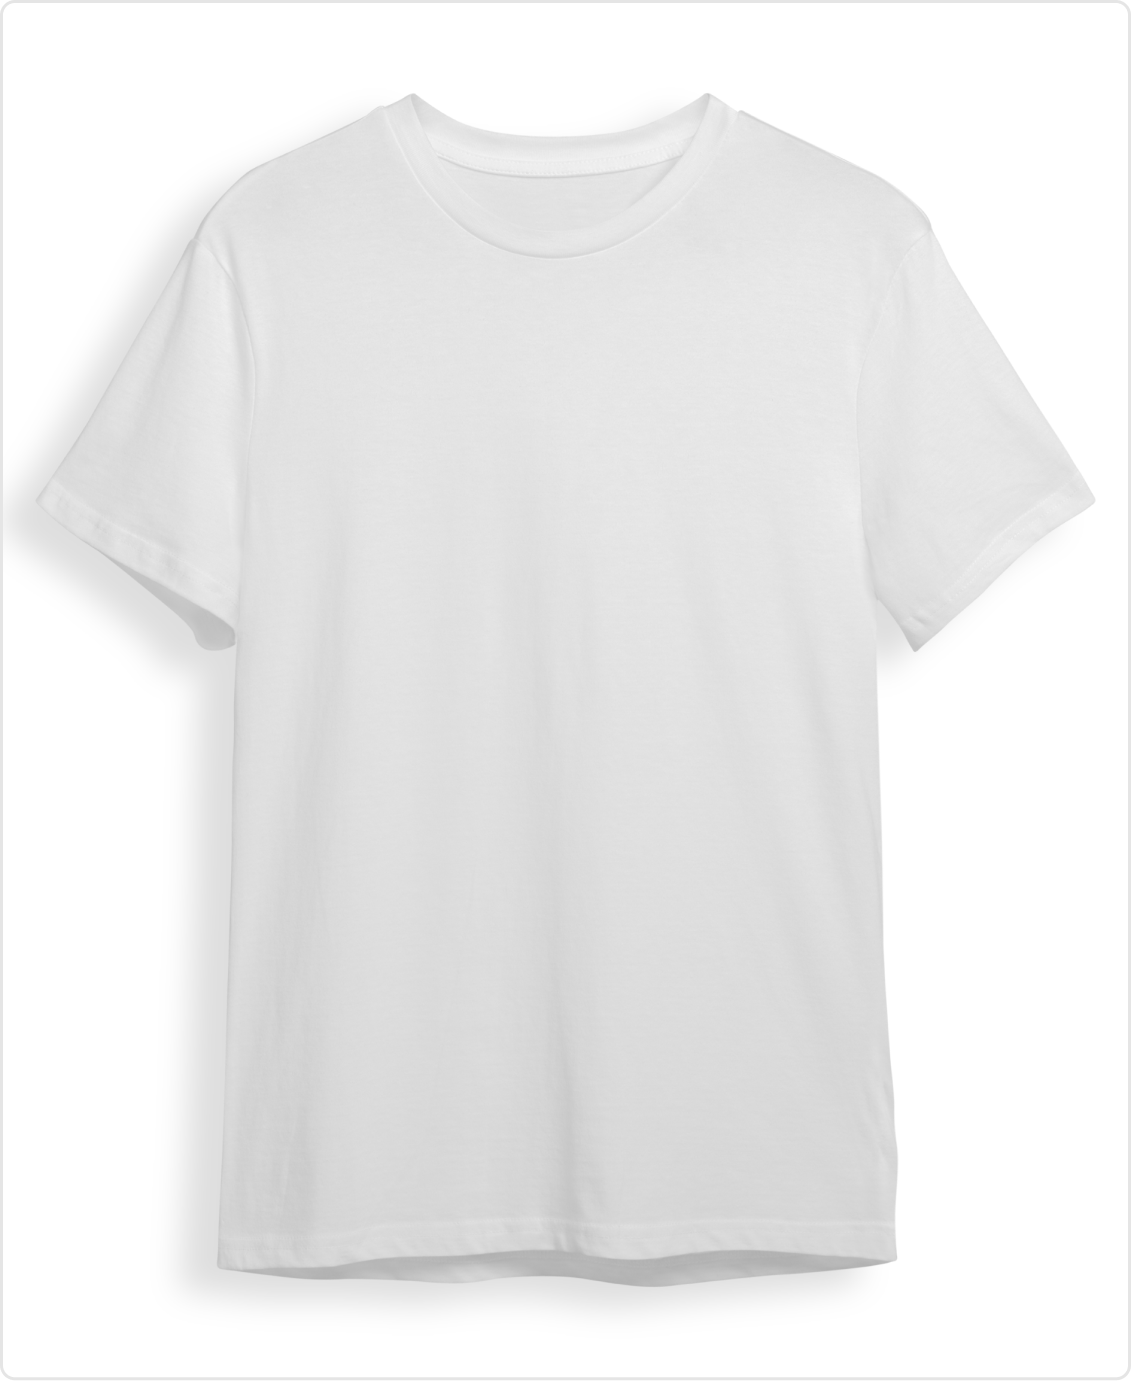
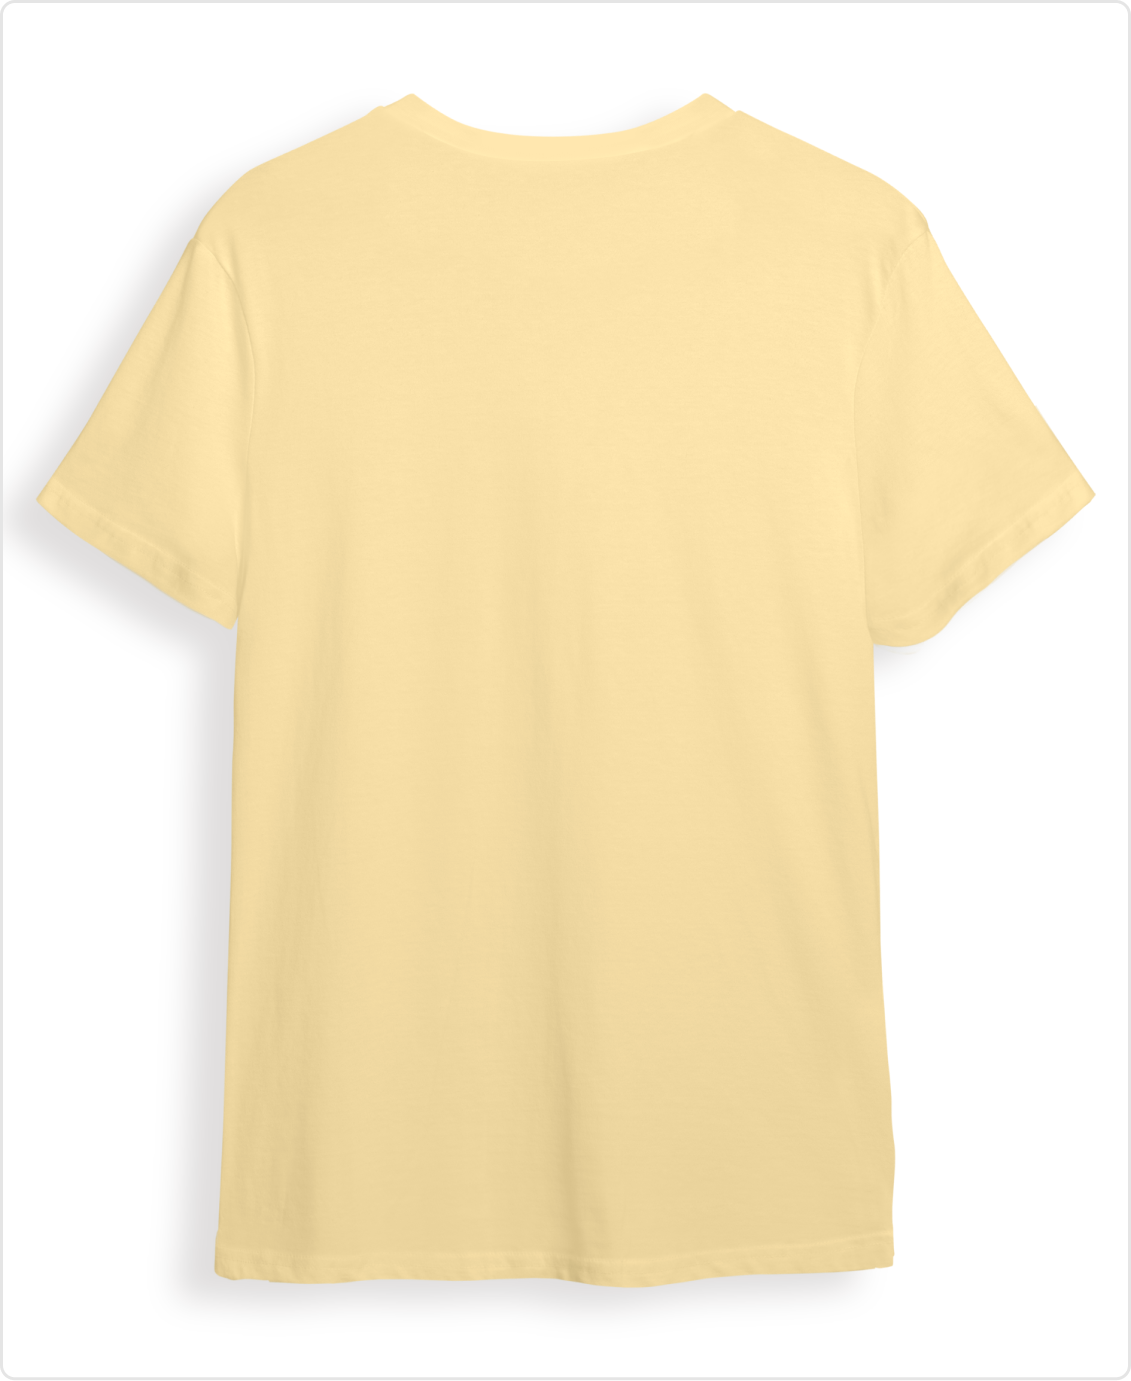
commit

diff --git a/pages/customise.js b/pages/customise.js
@@ -105,17 +105,17 @@ const Customise = () => {
                 <button onClick={() => { setFrontBackSelected("FRONT") }} className={`w-[98px] h-[28px] ${FrontBackSelected === 'FRONT' ? "bg-[#54BAB9] text-[#FFFFFF]" : ""} text-[12px] font-inter  rounded-[4px] cursor-pointer`}>FRONT</button>
                 <button onClick={() => { setFrontBackSelected("BACK") }} className={`w-[98px] h-[28px] ${FrontBackSelected === 'BACK' ? "bg-[#54BAB9] text-[#FFFFFF]" : ""} text-[12px] font-inter rounded-[4px] cursor-pointer`}>BACK</button>
 
-                <input ref={inputFileRef} onChange={uploadFile} type="file" class="pt-1.5 pl-2 w-[98px] h-[28px] bg-[#54BAB9] text-[12px] font-inter text-[#FFFFFF] rounded-[4px] cursor-pointer  file:hidden" />
+                <input ref={inputFileRef} onChange={uploadFile} type="file" className="pt-1.5 pl-2 w-[98px] h-[28px] bg-[#54BAB9] text-[12px] font-inter text-[#FFFFFF] rounded-[4px] cursor-pointer  file:hidden" />
                 {/* <button onClick={() => { inputFileRef.current.onClick() }} className={`w-[98px] h-[28px] bg-[#54BAB9] text-[12px] font-inter text-[#FFFFFF] rounded-[4px] cursor-pointer`}>UPLOAD</button> */}
 
 
             </div>
 
-            {/* <input type="file" class="pt-1.5 pl-1.5 w-[98px] h-[28px] bg-[#54BAB9] text-[12px] font-inter text-[#FFFFFF] rounded-[4px] cursor-pointer file:hidden" /> */}
+            {/* <input type="file" className="pt-1.5 pl-1.5 w-[98px] h-[28px] bg-[#54BAB9] text-[12px] font-inter text-[#FFFFFF] rounded-[4px] cursor-pointer file:hidden" /> */}
 
             {/* Canvas playground */}
-            <div className='flex items-center justify-center mt-[20px] p-[15px]'>
-                <img className='w-[331px] h-[406px]' src='./canvas/front.png'></img>
+            <div className='flex items-center justify-center mt-[20px]'>
+                <img className='w-[331px] h-[406px]  p-[10px]' src={`./canvas/${FrontBackSelected==='FRONT'? "front":"back"}.png`} ></img>
             </div>
 
 
